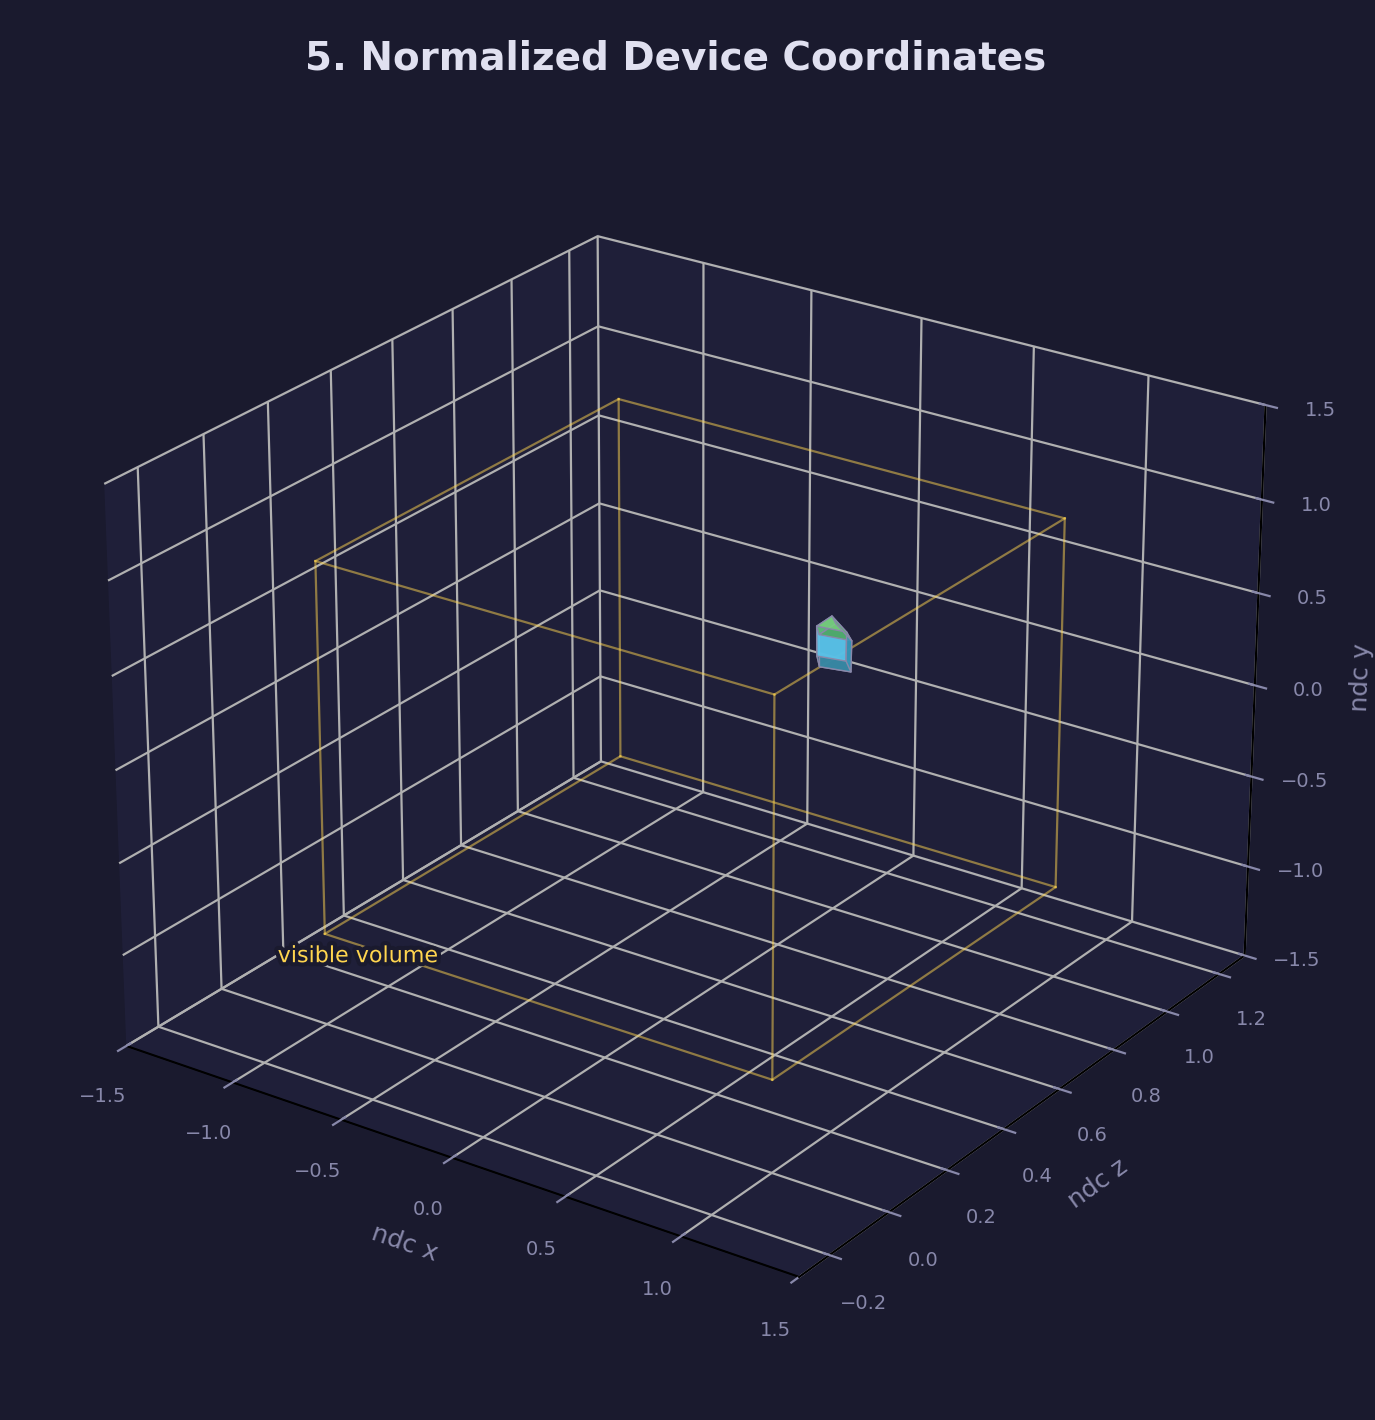
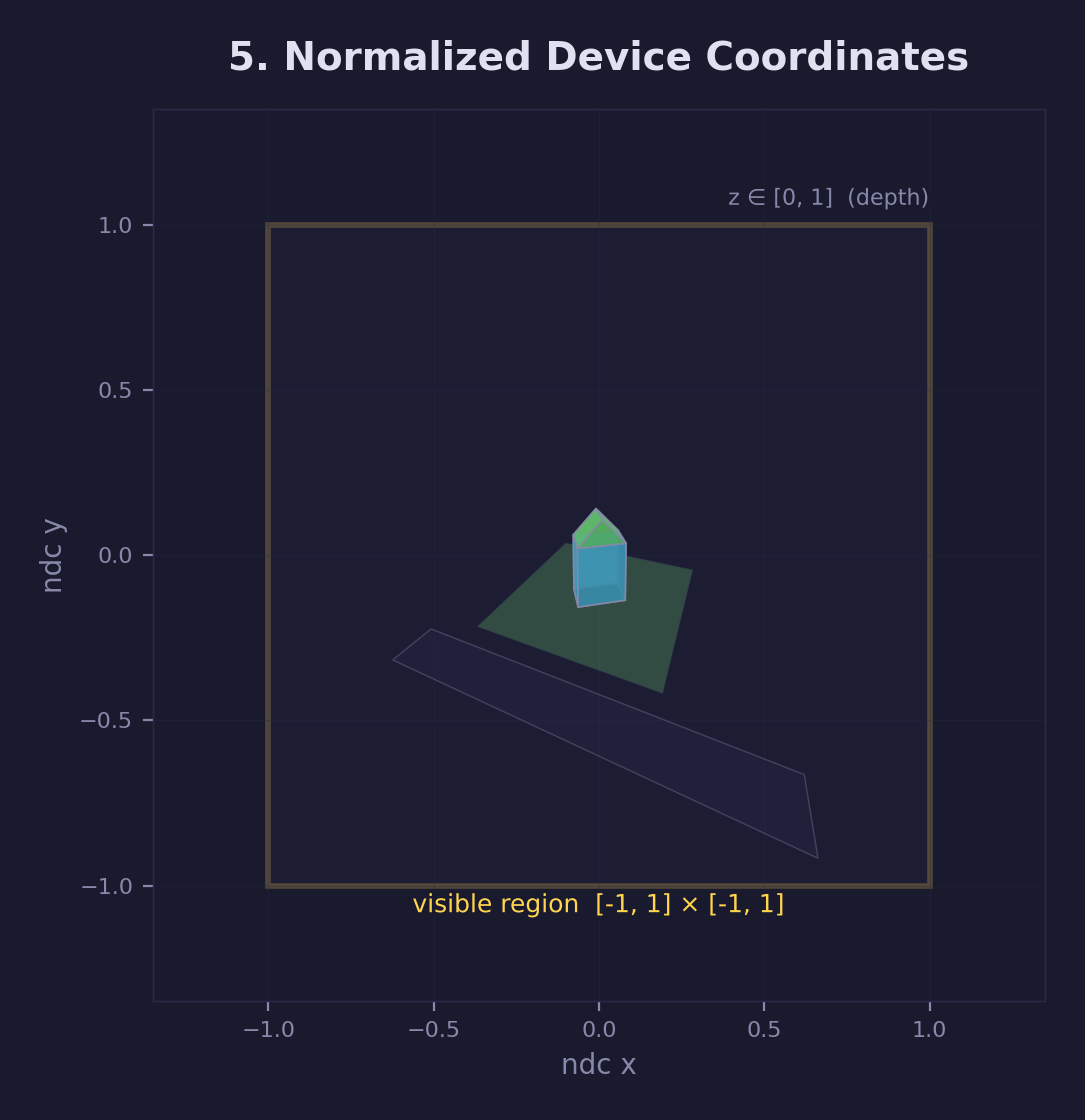
Fix NDC and clip space diagrams to show camera perspective with scenery (#112)
The NDC diagram was a confusing 3D plot where the house appeared as a
tiny speck inside a wireframe box, looking like a weirdly rotated
local-space image. The clip space diagram also lacked scene context.

Replaced both with 2D front-facing views that show what the camera
sees — matching the screen-space diagram style. Added ground plane
and road scenery to clip space, NDC, and screen space diagrams for
visual continuity with the world-space and view-space diagrams.

The visual story now flows coherently:
  1-3: 3D views (local → world → view) with scenery
  4-6: 2D camera views (clip → NDC → screen) with scenery

https://claude.ai/code/session_01E9LkEX4FzYSnSiLe6XdwaG

diff --git a/scripts/forge_diagrams/math_diagrams.py b/scripts/forge_diagrams/math_diagrams.py
@@ -4138,6 +4138,88 @@ def _coord_pipeline():
     return world_verts, view_verts, clip4, ndc_verts, screen_x, screen_y
 
 
+def _scenery_world_verts():
+    """Return (ground, road) quad arrays in GPU world-space coordinates.
+
+    Matches the yard and road drawn in the world-space / view-space diagrams
+    so the same scenery appears consistently across all pipeline stages.
+    """
+    world_verts, _, _, _, _, _ = _coord_pipeline()
+    hc = world_verts.mean(axis=0)
+
+    gnd_size = 7.0
+    ghs = gnd_size / 2.0
+    ground = np.array(
+        [
+            [hc[0] - ghs, 0.0, hc[2] - ghs],
+            [hc[0] + ghs, 0.0, hc[2] - ghs],
+            [hc[0] + ghs, 0.0, hc[2] + ghs],
+            [hc[0] - ghs, 0.0, hc[2] + ghs],
+        ]
+    )
+
+    road_x0, road_x1 = -2.0, 10.0
+    road_z = hc[2] + 5.0
+    road_hw = 1.5 / 2.0
+    road = np.array(
+        [
+            [road_x0, 0.0, road_z - road_hw],
+            [road_x1, 0.0, road_z - road_hw],
+            [road_x1, 0.0, road_z + road_hw],
+            [road_x0, 0.0, road_z + road_hw],
+        ]
+    )
+    return ground, road
+
+
+def _scenery_through_pipeline():
+    """Push ground/road through view → clip → NDC → screen.
+
+    Returns a dict with keys 'ground' and 'road', each containing
+    sub-dicts with 'clip4', 'ndc', 'screen_x', 'screen_y' arrays.
+    """
+    ground_w, road_w = _scenery_world_verts()
+
+    result = {}
+    for name, world_quad in [("ground", ground_w), ("road", road_w)]:
+        view = _xf3(world_quad, _VIEW_MAT)
+        clip4 = _xf4(view, _PROJ_MAT)
+        ndc = clip4[:, :3] / clip4[:, 3:4]
+        sx = (ndc[:, 0] + 1.0) * 0.5 * _SCR_W
+        sy = (1.0 - ndc[:, 1]) * 0.5 * _SCR_H
+        result[name] = {"clip4": clip4, "ndc": ndc, "screen_x": sx, "screen_y": sy}
+    return result
+
+
+def _add_scenery_2d(ax, ground_xy, road_xy):
+    """Draw ground and road as 2-D polygons on *ax* (for clip / NDC / screen).
+
+    *ground_xy* and *road_xy* are Nx2 arrays of (x, y) for each quad.
+    """
+    ax.add_patch(
+        Polygon(
+            ground_xy,
+            closed=True,
+            facecolor=STYLE["accent3"],
+            edgecolor=STYLE["grid"],
+            linewidth=0.5,
+            alpha=0.30,
+            zorder=2,
+        )
+    )
+    ax.add_patch(
+        Polygon(
+            road_xy,
+            closed=True,
+            facecolor=STYLE["grid"],
+            edgecolor=STYLE["text_dim"],
+            linewidth=0.5,
+            alpha=0.35,
+            zorder=2,
+        )
+    )
+
+
 # ── Coordinate-system adapter ─────────────────────────────────────────────
 #
 # GPU convention: Y-up (x right, y up, z toward viewer).
@@ -4560,37 +4642,100 @@ def diagram_coord_view_space():
 
 
 def diagram_coord_clip_space():
-    """House in clip space with w component encoding depth."""
-    from mpl_toolkits.mplot3d import Axes3D  # noqa: F401
+    """House shown from the camera's perspective in clip-space coordinates.
 
-    fig = plt.figure(figsize=(7, 7), facecolor=STYLE["bg"])
-    ax: Axes3D = fig.add_subplot(111, projection="3d")  # type: ignore[assignment]
+    Uses a 2D view (clip x vs clip y) with scenery.  The w annotation
+    highlights that the homogeneous w component is no longer 1 after
+    projection — the key property that distinguishes clip space from
+    the earlier spaces.
+    """
+    fig = plt.figure(figsize=(9, 5.5), facecolor=STYLE["bg"])
+    ax = fig.add_subplot(111)
+    ax.set_facecolor(STYLE["bg"])
 
     _, _, clip4, _, _, _ = _coord_pipeline()
-    clip_xyz = clip4[:, :3]
     clip_w = clip4[:, 3]
 
-    mpl_clip = _gpu_to_mpl(clip_xyz)
-    _add_house_3d(ax, mpl_clip)
+    # --- Scenery (ground + road) projected into clip space ---
+    scenery = _scenery_through_pipeline()
+    ground_clip4 = scenery["ground"]["clip4"]
+    road_clip4 = scenery["road"]["clip4"]
+    _add_scenery_2d(
+        ax,
+        np.column_stack([ground_clip4[:, 0], ground_clip4[:, 1]]),
+        np.column_stack([road_clip4[:, 0], road_clip4[:, 1]]),
+    )
 
-    # Annotate the roof peak (highest mpl-z = highest GPU y) with its w value
-    peak_idx = np.argmax(mpl_clip[:, 2])
-    px, py, pz = mpl_clip[peak_idx]
+    # --- House faces (painter's algorithm using clip z / w for depth) ---
+    clip_depth = clip4[:, 2] / clip_w
+    face_depths = []
+    for face_idx, idx_list in enumerate(_HOUSE_FACES):
+        avg_z = np.mean(clip_depth[idx_list])
+        face_depths.append((avg_z, face_idx, idx_list))
+    face_depths.sort(key=lambda t: t[0], reverse=True)
+
+    for draw_order, (_, face_idx, idx_list) in enumerate(face_depths):
+        fx = clip4[idx_list, 0]
+        fy = clip4[idx_list, 1]
+        poly = np.column_stack([fx, fy])
+        ax.add_patch(
+            Polygon(
+                poly,
+                closed=True,
+                facecolor=_HOUSE_COLORS[face_idx],
+                edgecolor=STYLE["text_dim"],
+                linewidth=0.6,
+                alpha=0.85,
+                zorder=3 + draw_order,
+            )
+        )
+
+    # Annotate w at the roof peak (highest clip y)
+    peak_idx = int(np.argmax(clip4[:, 1]))
     w_val = clip_w[peak_idx]
-    ax.text(
-        px + 0.3,
-        py,
-        pz + 0.5,
+    ax.annotate(
         f"w = {w_val:.1f}",
+        xy=(clip4[peak_idx, 0], clip4[peak_idx, 1]),
+        xytext=(clip4[peak_idx, 0] + 1.2, clip4[peak_idx, 1] + 1.0),
         color=STYLE["warn"],
         fontsize=11,
         fontweight="bold",
+        arrowprops={"arrowstyle": "->", "color": STYLE["warn"], "lw": 1.2},
         path_effects=[pe.withStroke(linewidth=3, foreground=STYLE["bg"])],
     )
 
-    _set_equal_3d(ax, mpl_clip, pad=1.5)
-    ax.view_init(elev=25, azim=-55)
-    _style_3d(ax, "4. Clip Space", xlabel="clip x", ylabel="clip z", zlabel="clip y")
+    # Note about clip-space boundaries
+    ax.text(
+        0.02,
+        0.02,
+        "visible when  |x|, |y| \u2264 w",
+        color=STYLE["text_dim"],
+        fontsize=8,
+        transform=ax.transAxes,
+        path_effects=[pe.withStroke(linewidth=3, foreground=STYLE["bg"])],
+    )
+
+    # Auto-scale with some padding around the house
+    all_x = np.concatenate([clip4[:, 0], ground_clip4[:, 0]])
+    all_y = np.concatenate([clip4[:, 1], ground_clip4[:, 1]])
+    pad = 2.0
+    ax.set_xlim(all_x.min() - pad, all_x.max() + pad)
+    ax.set_ylim(all_y.min() - pad, all_y.max() + pad)
+    ax.set_aspect("equal")
+    ax.tick_params(colors=STYLE["axis"], labelsize=8)
+    for spine in ax.spines.values():
+        spine.set_color(STYLE["grid"])
+        spine.set_linewidth(0.5)
+    ax.grid(True, color=STYLE["grid"], linewidth=0.5, alpha=0.3)
+    ax.set_xlabel("clip x", color=STYLE["axis"], fontsize=10)
+    ax.set_ylabel("clip y", color=STYLE["axis"], fontsize=10)
+    ax.set_title(
+        "4. Clip Space",
+        color=STYLE["text"],
+        fontsize=14,
+        fontweight="bold",
+        pad=14,
+    )
 
     fig.tight_layout()
     save(fig, _COORD_LESSON, "coord_clip_space.png")
@@ -4600,60 +4745,107 @@ def diagram_coord_clip_space():
 
 
 def diagram_coord_ndc():
-    """House normalised inside the visible volume after perspective divide."""
-    from mpl_toolkits.mplot3d import Axes3D  # noqa: F401
+    """House shown from the camera's perspective in NDC x-y space.
 
-    fig = plt.figure(figsize=(7, 7), facecolor=STYLE["bg"])
-    ax: Axes3D = fig.add_subplot(111, projection="3d")  # type: ignore[assignment]
+    Uses a 2D front-facing view so learners see what the camera sees,
+    with coordinates normalised to [-1, 1].  The NDC boundary rectangle
+    makes the visible region obvious and bridges naturally into the
+    screen-space diagram that follows.
+    """
+    fig = plt.figure(figsize=(9, 5.5), facecolor=STYLE["bg"])
+    ax = fig.add_subplot(111)
+    ax.set_facecolor(STYLE["bg"])
 
     _, _, _, ndc_verts, _, _ = _coord_pipeline()
 
-    mpl_ndc = _gpu_to_mpl(ndc_verts)
-    _add_house_3d(ax, mpl_ndc)
+    # NDC boundary rectangle: x ∈ [-1, 1], y ∈ [-1, 1]
+    ax.add_patch(
+        Rectangle(
+            (-1, -1),
+            2,
+            2,
+            linewidth=2,
+            edgecolor=STYLE["warn"],
+            facecolor=STYLE["surface"],
+            alpha=0.25,
+            zorder=1,
+        )
+    )
 
-    # Visible-volume wireframe box (GPU: x,y ∈ [-1,1], z ∈ [0,1]).
-    # After Y↔Z swap → mpl: x ∈ [-1,1], y(=gpu_z) ∈ [0,1], z(=gpu_y) ∈ [-1,1].
-    mx = [-1, 1]  # mpl-x range  (gpu x)
-    my = [0, 1]  # mpl-y range  (gpu z)
-    mz = [-1, 1]  # mpl-z range  (gpu y)
-    box_edges = []
-    # Edges along mpl-x
-    for yi in my:
-        for zi in mz:
-            box_edges.append([[mx[0], yi, zi], [mx[1], yi, zi]])
-    # Edges along mpl-y
-    for xi in mx:
-        for zi in mz:
-            box_edges.append([[xi, my[0], zi], [xi, my[1], zi]])
-    # Edges along mpl-z
-    for xi in mx:
-        for yi in my:
-            box_edges.append([[xi, yi, mz[0]], [xi, yi, mz[1]]])
+    # --- Scenery (ground + road) projected into NDC ---
+    scenery = _scenery_through_pipeline()
+    ground_ndc = scenery["ground"]["ndc"]
+    road_ndc = scenery["road"]["ndc"]
+    _add_scenery_2d(
+        ax,
+        np.column_stack([ground_ndc[:, 0], ground_ndc[:, 1]]),
+        np.column_stack([road_ndc[:, 0], road_ndc[:, 1]]),
+    )
 
-    for seg in box_edges:
-        xs, ys, zs = zip(*seg)
-        ax.plot(xs, ys, zs, color=STYLE["warn"], lw=0.8, alpha=0.5)
+    # Depth for painter's algorithm (NDC z — higher = farther)
+    ndc_z = ndc_verts[:, 2]
 
+    # Sort faces back-to-front so nearer faces draw on top
+    face_depths = []
+    for face_idx, idx_list in enumerate(_HOUSE_FACES):
+        avg_z = np.mean(ndc_z[idx_list])
+        face_depths.append((avg_z, face_idx, idx_list))
+    face_depths.sort(key=lambda t: t[0], reverse=True)  # farthest first
+
+    for draw_order, (_, face_idx, idx_list) in enumerate(face_depths):
+        fx = ndc_verts[idx_list, 0]
+        fy = ndc_verts[idx_list, 1]
+        poly = np.column_stack([fx, fy])
+        ax.add_patch(
+            Polygon(
+                poly,
+                closed=True,
+                facecolor=_HOUSE_COLORS[face_idx],
+                edgecolor=STYLE["text_dim"],
+                linewidth=0.6,
+                alpha=0.85,
+                zorder=3 + draw_order,
+            )
+        )
+
+    # Boundary label
     ax.text(
-        -1.0,
-        -0.15,
-        -1.0,
-        "visible volume",
+        0.0,
+        -1.0 - 0.08,
+        "visible region  [-1, 1] \u00d7 [-1, 1]",
         color=STYLE["warn"],
-        fontsize=8,
+        fontsize=9,
+        ha="center",
         path_effects=[pe.withStroke(linewidth=3, foreground=STYLE["bg"])],
     )
 
-    ax.set_xlim(-1.5, 1.5)
-    ax.set_ylim(-0.3, 1.3)
-    ax.set_zlim(-1.5, 1.5)
-    ax.view_init(elev=25, azim=-55)
-    _style_3d(
-        ax,
+    # Z-range annotation
+    ax.text(
+        1.0,
+        1.0 + 0.06,
+        "z \u2208 [0, 1]  (depth)",
+        color=STYLE["text_dim"],
+        fontsize=8,
+        ha="right",
+        path_effects=[pe.withStroke(linewidth=3, foreground=STYLE["bg"])],
+    )
+
+    ax.set_xlim(-1.35, 1.35)
+    ax.set_ylim(-1.35, 1.35)
+    ax.set_aspect("equal")
+    ax.tick_params(colors=STYLE["axis"], labelsize=8)
+    for spine in ax.spines.values():
+        spine.set_color(STYLE["grid"])
+        spine.set_linewidth(0.5)
+    ax.grid(True, color=STYLE["grid"], linewidth=0.5, alpha=0.3)
+    ax.set_xlabel("ndc x", color=STYLE["axis"], fontsize=10)
+    ax.set_ylabel("ndc y", color=STYLE["axis"], fontsize=10)
+    ax.set_title(
         "5. Normalized Device Coordinates",
-        xlabel="ndc x",
-        ylabel="ndc z",
-        zlabel="ndc y",
+        color=STYLE["text"],
+        fontsize=14,
+        fontweight="bold",
+        pad=14,
     )
 
     fig.tight_layout()
@@ -4674,7 +4866,7 @@ def diagram_coord_screen_space():
     # Per-vertex depth in view space (GPU z) for painter's algorithm
     screen_z = ndc_verts[:, 2]
 
-    # Screen boundary
+    # Screen boundary (drawn before scenery so it sits behind everything)
     ax.add_patch(
         Rectangle(
             (0, 0),
@@ -4686,6 +4878,14 @@ def diagram_coord_screen_space():
             alpha=0.25,
             zorder=1,
         )
+    )
+
+    # --- Scenery (ground + road) projected into screen space ---
+    scenery = _scenery_through_pipeline()
+    _add_scenery_2d(
+        ax,
+        np.column_stack([scenery["ground"]["screen_x"], scenery["ground"]["screen_y"]]),
+        np.column_stack([scenery["road"]["screen_x"], scenery["road"]["screen_y"]]),
     )
 
     # Sort faces back-to-front (painter's algorithm) so nearer faces
